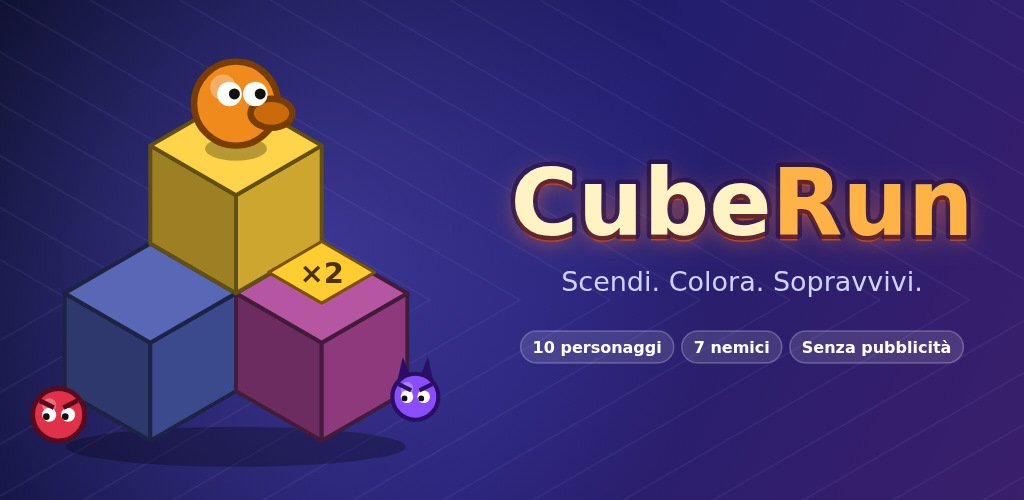
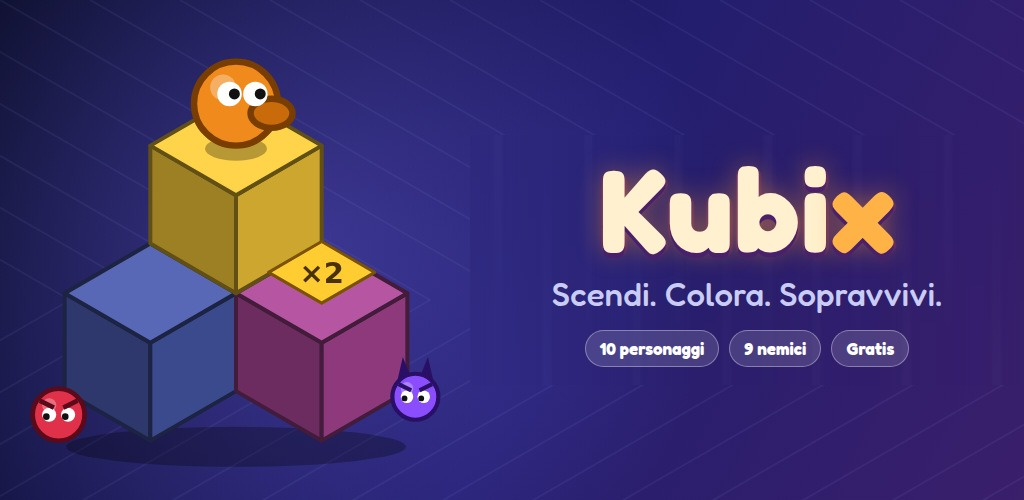
Rename and google verification

Changed region(s): [[0.4688, 0.3, 0.9688, 0.63], [0.5, 0.66, 0.9375, 0.75]]

diff --git a/privacy.html b/privacy.html
@@ -1,33 +1,33 @@
-<!DOCTYPE html><html lang="en"><head><meta charset="utf-8"><meta name="viewport" content="width=device-width,initial-scale=1"><title>Privacy Policy - CubeRun</title><meta name="robots" content="index"><style>:root{color-scheme:dark light;--bg:#0f1226;--fg:#f1efe8;--muted:#b9bde6;--card:#1b1f3f;--line:#303566;--accent:#ffb347}
+<!DOCTYPE html><html lang="en"><head><meta charset="utf-8"><meta name="viewport" content="width=device-width,initial-scale=1"><title>Privacy Policy - Kubix</title><meta name="robots" content="index"><style>:root{color-scheme:dark light;--bg:#0f1226;--fg:#f1efe8;--muted:#b9bde6;--card:#1b1f3f;--line:#303566;--accent:#ffb347}
 @media (prefers-color-scheme:light){:root{--bg:#f1f2fb;--fg:#14183a;--muted:#4a5088;--card:#ffffff;--line:#d5d8f2;--accent:#c76a00}}
 *{box-sizing:border-box}body{margin:0;background:var(--bg);color:var(--fg);font:16px/1.6 system-ui,-apple-system,"Segoe UI",Roboto,sans-serif}
 a{color:var(--accent);word-break:break-word}main{max-width:760px;margin:0 auto;padding:28px 18px 60px}h1{font-size:2rem;margin:.2em 0}h2{margin-top:1.8em;font-size:1.25rem}
 .muted{color:var(--muted)}hr{border:0;border-top:1px solid var(--line);margin:3em 0}</style></head><body><main>
-<p><a href="./">&larr; CubeRun</a></p>
+<p><a href="./">&larr; Kubix</a></p>
 <p class="muted"><a href="#en">English</a> &middot; <a href="#it">Italiano</a></p>
-<section id="en" lang="en"><h1>CubeRun Privacy Policy</h1><p class="muted">Last updated: 30 September 2026<br>Controller: Tarek Assioui - contact: <a href="mailto:tarek.assioui@gmail.com">tarek.assioui@gmail.com</a></p>
-<p>This policy explains what data the CubeRun app (Android) handles and who handles it.</p>
+<section id="en" lang="en"><h1>Kubix Privacy Policy</h1><p class="muted">Last updated: 30 September 2026<br>Controller: Tarek Assioui - contact: <a href="mailto:tarek.assioui@gmail.com">tarek.assioui@gmail.com</a></p>
+<p>This policy explains what data the Kubix app (Android) handles and who handles it.</p>
 <h2>In short</h2>
 <ul>
-<li>CubeRun has no accounts, no servers of its own and no analytics tools.</li>
+<li>Kubix has no accounts, no servers of its own and no analytics tools.</li>
 <li>Your game progress stays on your phone.</li>
 <li>The app shows <strong>optional rewarded video ads</strong> through Google AdMob. To show them, Google may process some data from your device (see below). In Europe it only does so with your consent.</li>
 <li><strong>In-app purchases</strong> are handled entirely by Google Play: we never see or store your payment details.</li>
 </ul>
 <h2>Data stored on your device</h2>
-<p>To remember your progress the game stores in the app's local storage: best score and best rows, coins, unlocked and selected characters, upgrades, daily goals, day streak, Battle Pass status, language, the player name you choose, audio/music/vibration settings and purchase status (for example whether you own Cubo Pro). This data <strong>stays on your phone and is not sent to us</strong>. You can erase it with "Reset all progress" in the Profile screen, or by uninstalling the app.</p>
+<p>To remember your progress the game stores in the app's local storage: best score and best rows, coins, unlocked and selected characters, upgrades, daily goals, day streak, Battle Pass status, language, the player name you choose, audio/music/vibration settings and purchase status (for example whether you own Kubix Pro). This data <strong>stays on your phone and is not sent to us</strong>. You can erase it with "Reset all progress" in the Profile screen, or by uninstalling the app.</p>
 <h2>Ads (Google AdMob)</h2>
-<p>CubeRun only shows rewarded videos, which you choose to watch (to double your coins, revive in a run or get a free crate). Ads are provided by Google AdMob. To serve and measure ads, prevent abuse and fraud, and manage consent, Google (and its advertising partners) may process data such as your IP address, the device advertising ID, device and app information, and your interactions with ads. We do not receive this data and do not use it for any other purpose.</p>
+<p>Kubix only shows rewarded videos, which you choose to watch (to double your coins, revive in a run or get a free crate). Ads are provided by Google AdMob. To serve and measure ads, prevent abuse and fraud, and manage consent, Google (and its advertising partners) may process data such as your IP address, the device advertising ID, device and app information, and your interactions with ads. We do not receive this data and do not use it for any other purpose.</p>
 <ul>
 <li><strong>Consent</strong>: if you are in the European Economic Area, the United Kingdom or another region where it is required, Google's consent form appears the first time you open the app. Without consent, ads are not requested. You can review your choice at any time in <strong>Profile &gt; Privacy &amp; ads</strong>.</li>
 <li><strong>Advertising ID</strong>: you can reset it or turn off ad personalization in Android settings (Google &gt; Ads).</li>
-<li>Players who own <strong>Cubo Pro</strong> do not see optional ads.</li>
+<li>Players who own <strong>Kubix Pro</strong> do not see optional ads.</li>
 <li>More information on how Google uses data from apps that use its services: <a href="https://policies.google.com/technologies/partner-sites">https://policies.google.com/technologies/partner-sites</a></li>
 </ul>
 <h2>In-app purchases (Google Play)</h2>
-<p>Coins, Cubo Pro and the premium Battle Pass are bought through Google Play Billing. Payment is handled by Google under its own terms: CubeRun does not receive or store card numbers or other payment details. The app only receives confirmation that a purchase took place and uses it to unlock what you bought or to restore it (the "Restore purchases" button). Purchased coins are not refunded by the game; refunds follow Google Play's rules.</p>
-<h2>Player name and leaderboard</h2>
-<p>The player name is freely chosen by you and is shown only on your device. The leaderboard contains sample scores and is not connected to other players. We suggest you do not enter real personal data.</p>
+<p>Coins, Kubix Pro and the premium Battle Pass are bought through Google Play Billing. Payment is handled by Google under its own terms: Kubix does not receive or store card numbers or other payment details. The app only receives confirmation that a purchase took place and uses it to unlock what you bought or to restore it (the "Restore purchases" button). Purchased coins are not refunded by the game; refunds follow Google Play's rules.</p>
+<h2>Player name and records</h2>
+<p>The player name is freely chosen by you and is shown only on your device. Your records (best score, rows, runs) are kept only on your device and are not shared with other players. We suggest you do not enter real personal data.</p>
 <h2>Permissions</h2>
 <p>The app uses an Internet connection (only for ads and purchases), vibration for haptic feedback, and the advertising ID through Google AdMob. It does not ask for access to your location, contacts, microphone, camera or files. Fonts and music are bundled in the app, which also works offline.</p>
 <h2>Children</h2>
@@ -37,29 +37,29 @@ a{color:var(--accent);word-break:break-word}main{max-width:760px;margin:0 auto;p
 <h2>Changes</h2>
 <p>If the data we handle changes in the future (for example with an online leaderboard or new services), this policy will be updated <strong>before</strong> the release, with a new date.</p></section>
 <hr>
-<section id="it" lang="it"><h1>Informativa sulla privacy di CubeRun</h1><p class="muted">Ultimo aggiornamento: 30 settembre 2026<br>Titolare del trattamento: Tarek Assioui - contatto: <a href="mailto:tarek.assioui@gmail.com">tarek.assioui@gmail.com</a></p>
-<p>Questa informativa spiega quali dati tratta l'app CubeRun (Android) e chi li tratta. Ne esiste anche una versione in inglese, più sotto in questa pagina.</p>
+<section id="it" lang="it"><h1>Informativa sulla privacy di Kubix</h1><p class="muted">Ultimo aggiornamento: 30 settembre 2026<br>Titolare del trattamento: Tarek Assioui - contatto: <a href="mailto:tarek.assioui@gmail.com">tarek.assioui@gmail.com</a></p>
+<p>Questa informativa spiega quali dati tratta l'app Kubix (Android) e chi li tratta. Ne esiste anche una versione in inglese, più sotto in questa pagina.</p>
 <h2>In breve</h2>
 <ul>
-<li>CubeRun non ha account, non ha server propri e non usa strumenti di statistica.</li>
+<li>Kubix non ha account, non ha server propri e non usa strumenti di statistica.</li>
 <li>I tuoi progressi restano sul tuo telefono.</li>
 <li>L'app mostra <strong>annunci video facoltativi</strong> tramite Google AdMob: per mostrarli Google può trattare alcuni dati del tuo dispositivo (vedi sotto). In Europa lo fa solo se dai il consenso.</li>
 <li>Gli <strong>acquisti in app</strong> passano interamente da Google Play: noi non vediamo né conserviamo i tuoi dati di pagamento.</li>
 </ul>
 <h2>Dati salvati sul tuo dispositivo</h2>
-<p>Per ricordare i tuoi progressi il gioco salva nella memoria locale dell'app: record e righe massime, monete, personaggi sbloccati e scelto, potenziamenti, obiettivi giornalieri, serie di giorni, stato del Battle Pass, lingua, il nome giocatore che scegli tu, le impostazioni di audio, musica e vibrazione e lo stato degli acquisti (per esempio se hai Cubo Pro). Questi dati <strong>restano sul tuo telefono e non vengono inviati a noi</strong>. Puoi cancellarli con «Azzera tutti i progressi» nel Profilo, oppure disinstallando l'app.</p>
+<p>Per ricordare i tuoi progressi il gioco salva nella memoria locale dell'app: record e righe massime, monete, personaggi sbloccati e scelto, potenziamenti, obiettivi giornalieri, serie di giorni, stato del Battle Pass, lingua, il nome giocatore che scegli tu, le impostazioni di audio, musica e vibrazione e lo stato degli acquisti (per esempio se hai Kubix Pro). Questi dati <strong>restano sul tuo telefono e non vengono inviati a noi</strong>. Puoi cancellarli con «Azzera tutti i progressi» nel Profilo, oppure disinstallando l'app.</p>
 <h2>Annunci (Google AdMob)</h2>
-<p>CubeRun mostra soltanto video con premio, che decidi tu di guardare (per raddoppiare le monete, riprendere la partita o ottenere una cassa gratis). Gli annunci sono forniti da Google AdMob. Per mostrare e misurare gli annunci, prevenire abusi e frodi e gestire il consenso, Google (e i suoi partner pubblicitari) possono trattare dati come l'indirizzo IP, l'identificativo pubblicitario del dispositivo, informazioni sul dispositivo e sull'app, e le tue interazioni con gli annunci. Noi non riceviamo questi dati e non li usiamo per altri scopi.</p>
+<p>Kubix mostra soltanto video con premio, che decidi tu di guardare (per raddoppiare le monete, riprendere la partita o ottenere una cassa gratis). Gli annunci sono forniti da Google AdMob. Per mostrare e misurare gli annunci, prevenire abusi e frodi e gestire il consenso, Google (e i suoi partner pubblicitari) possono trattare dati come l'indirizzo IP, l'identificativo pubblicitario del dispositivo, informazioni sul dispositivo e sull'app, e le tue interazioni con gli annunci. Noi non riceviamo questi dati e non li usiamo per altri scopi.</p>
 <ul>
 <li><strong>Consenso</strong>: se ti trovi nello Spazio economico europeo, nel Regno Unito o in altre regioni in cui è richiesto, alla prima apertura compare il modulo di consenso di Google. Senza consenso gli annunci non vengono richiesti. Puoi rivedere la scelta in qualsiasi momento da <strong>Profilo &gt; Privacy e annunci</strong>.</li>
 <li><strong>Identificativo pubblicitario</strong>: puoi azzerarlo o disattivare la personalizzazione degli annunci dalle impostazioni di Android (Google &gt; Annunci).</li>
-<li>Chi ha <strong>Cubo Pro</strong> non vede annunci facoltativi.</li>
+<li>Chi ha <strong>Kubix Pro</strong> non vede annunci facoltativi.</li>
 <li>Maggiori informazioni: come Google usa i dati delle app che usano i suoi servizi: <a href="https://policies.google.com/technologies/partner-sites">https://policies.google.com/technologies/partner-sites</a></li>
 </ul>
 <h2>Acquisti in app (Google Play)</h2>
-<p>Monete, Cubo Pro e Battle Pass premium si acquistano tramite Google Play Billing. Il pagamento è gestito da Google secondo le sue condizioni: CubeRun non riceve né conserva numeri di carta o altri dati di pagamento. L'app riceve solo la conferma che l'acquisto è avvenuto, e la usa per attivare quanto hai comprato o per ripristinarlo (pulsante «Ripristina acquisti»). Le monete comprate non vengono rimborsate dal gioco; per i rimborsi valgono le regole di Google Play.</p>
-<h2>Nome giocatore e classifica</h2>
-<p>Il nome giocatore è scelto liberamente da te e viene mostrato solo sul tuo dispositivo. La classifica contiene punteggi di esempio e non è collegata ad altri giocatori. Ti consigliamo di non inserire dati personali reali.</p>
+<p>Monete, Kubix Pro e Battle Pass premium si acquistano tramite Google Play Billing. Il pagamento è gestito da Google secondo le sue condizioni: Kubix non riceve né conserva numeri di carta o altri dati di pagamento. L'app riceve solo la conferma che l'acquisto è avvenuto, e la usa per attivare quanto hai comprato o per ripristinarlo (pulsante «Ripristina acquisti»). Le monete comprate non vengono rimborsate dal gioco; per i rimborsi valgono le regole di Google Play.</p>
+<h2>Nome giocatore e record</h2>
+<p>Il nome giocatore è scelto liberamente da te e viene mostrato solo sul tuo dispositivo. I tuoi record (punteggio migliore, righe, partite) restano solo sul tuo dispositivo e non sono condivisi con altri giocatori. Ti consigliamo di non inserire dati personali reali.</p>
 <h2>Autorizzazioni</h2>
 <p>L'app usa la connessione a Internet (solo per gli annunci e gli acquisti), la vibrazione per il feedback tattile e l'identificativo pubblicitario tramite Google AdMob. Non chiede accesso a posizione, contatti, microfono, fotocamera o file. I caratteri e la musica sono inclusi nell'app, che funziona anche senza connessione.</p>
 <h2>Minori</h2>

diff --git a/googlee736e886f2c68db7.html b/googlee736e886f2c68db7.html
@@ -1,0 +1,1 @@
+google-site-verification: googlee736e886f2c68db7.html
